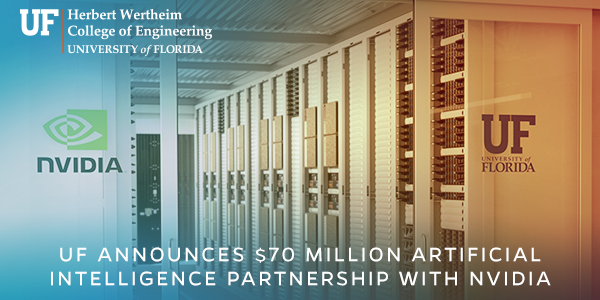
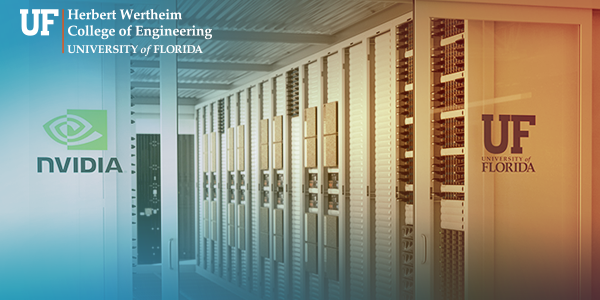
Update copy per Helen

Changed region(s): [[0.09, 0.9, 0.93, 0.96], [0.09, 0.81, 0.9, 0.87]]

diff --git a/ai-university/ai-university.html b/ai-university/ai-university.html
@@ -315,7 +315,7 @@
 				<table role="presentation" border="0" align="center" cellpadding="0" cellspacing="0" class="container-table" style="font-family:Arial, Helvetica, sans-serif; font-size:16px;">
 					<tr>
 						<td class="img" bgcolor="#ffffff">
-							<a href="https://www.eng.ufl.edu/ai-university/?utm_source=announcement&utm_medium=email&utm_campaign=jul2020&utm_content=header-image" target="_blank"><img src="https://www.eng.ufl.edu/eblasts/ai-university/images/NVIDIA-eblast-header.png" width="600" height="300" border="0" align="left" class="header-image" alt="A groundbreaking announcement about the University of Florida's work in artificial intelligence." /></a>
+							<a href="https://www.eng.ufl.edu/ai-university/?utm_source=announcement&utm_medium=email&utm_campaign=jul2020&utm_content=header-image" target="_blank"><img src="https://www.eng.ufl.edu/eblasts/ai-university/images/NVIDIA-eblast-header.png" width="600" height="300" border="0" align="left" class="header-image" alt="UF Announces $70 Million Artificial Intelligence Partnership with NVIDIA" /></a>
 						</td>
 					</tr>
 					<tr>
@@ -323,41 +323,27 @@
 							<table role="presentation" border="0" width="100%" cellpadding="0" cellspacing="0" style="border-collapse:collapse;">
 								<tr>
 									<td class="h1" valign="top">
-										<h1>Modern society has entered a Fourth Industrial Revolution.</h1>
+										<h1>UF Announces $70 Million Artificial Intelligence Partnership with NVIDIA</h1>
 									</td>
 								</tr>
 								<tr>
 									<td class="body" valign="top">
-										Artificial intelligence (AI) has catalyzed stunning levels of technological development across virtually all industries. UF’s newest multidisciplinary initiative, the UF AI University Initiative — guided and supported by principal partners like NVIDIA co-founder Chris Malachowsky (B.S. UF ECE ’83) — will leverage the exceptional breadth and depth of resources contained within the university’s 16 colleges and serve as a national model for AI research, technological advancement and next-generation workforce training, ranging from K-12 through working professionals.
+										The University of Florida has announced a public-private partnership with NVIDIA that will catapult UF’s research strength to address some of the world’s most formidable challenges, create unprecedented access to AI training and tools for underrepresented communities, and build momentum for transforming the future of the workforce.
 									</td>
 								</tr>
 								<tr>
-									<td class="body">
-										Paragraph about HWCOE involvement. 
-									</td>
-								</tr>
-								
-								<tr>
-									<td class="body" align="center" style="padding-top:20px;">
-										<!-- Start Button -->
-										<table role="presentation" class="ghostbutton" border="0" cellpadding="0" cellspacing="0">
-											<tr>
-												<td align="center" valign="middle">
-												<a href="https://www.eng.ufl.edu/ai-university/?utm_source=announcement&utm_medium=email&utm_campaign=jul2020&utm_content=button" target="_blank" style="color:#fa4616; text-decoration: none;">LEARN MORE <img src="https://www.eng.ufl.edu/eblasts/newengineer/images/arrow-right-orange.png" alt="arrow pointing right" width="10" height="14" border="0" /></a>
-												</td>
-											</tr>
-										</table>
-										<!-- End Button -->
-									</td>
-								</tr>
-								<!-- <tr>
 									<td class="body" valign="top">
-										<hr color="#fA4616">
+										Anchored by a $50 million gift — $25 million from UF alumnus Chris Malachowsky and $25 million in hardware, software, training and services from NVIDIA, the Silicon Valley-based technology company he cofounded and a world leader in AI and accelerated computing, along with an additional $20 million investment from UF, the university will not only be home to the most powerful AI supercomputer in higher education, it will also be among the nation’s first to integrate AI across all disciplines and make it a ubiquitous part of its academic enterprise.
 									</td>
-								</tr> -->
+								</tr>
+								<tr>
+									<td class="body" valign="top">
+										UF also plans on hiring 100 more faculty members focused on AI to join the 500 new faculty recently added across disciplines. Additionally, central to this entire initiative will also be a commitment to increase equitability, access, fairness and bias-elimination with the adoption of AI application. Florida K-12 systems and State Colleges, as well as Historically Black Colleges and Universities (HBCUs) and Hispanic Serving Institutions (HSIs), will all be brought to the fore as UF brings AI training, and thus access to a wide array of high paying jobs, to citizens in every corner of our state. The result of these partnerships will be a diverse AI-enabled workforce as well as technological advances that address problems statewide, nationally, and globally. 									
+									</td>
+								</tr>
 								<tr>
 									<td class="body">
-										To learn more, watch the video below and <a href="https://news.ufl.edu/2020/07/nvidia-partnership/" target="_blank">read the full announcement.</a>
+										To learn more about this exciting new chapter at UF, check out the video below and <a href="https://news.ufl.edu/2020/07/nvidia-partnership/" target="_blank">read the full announcement.</a>
 									</td>
 								</tr>
 								<tr>
